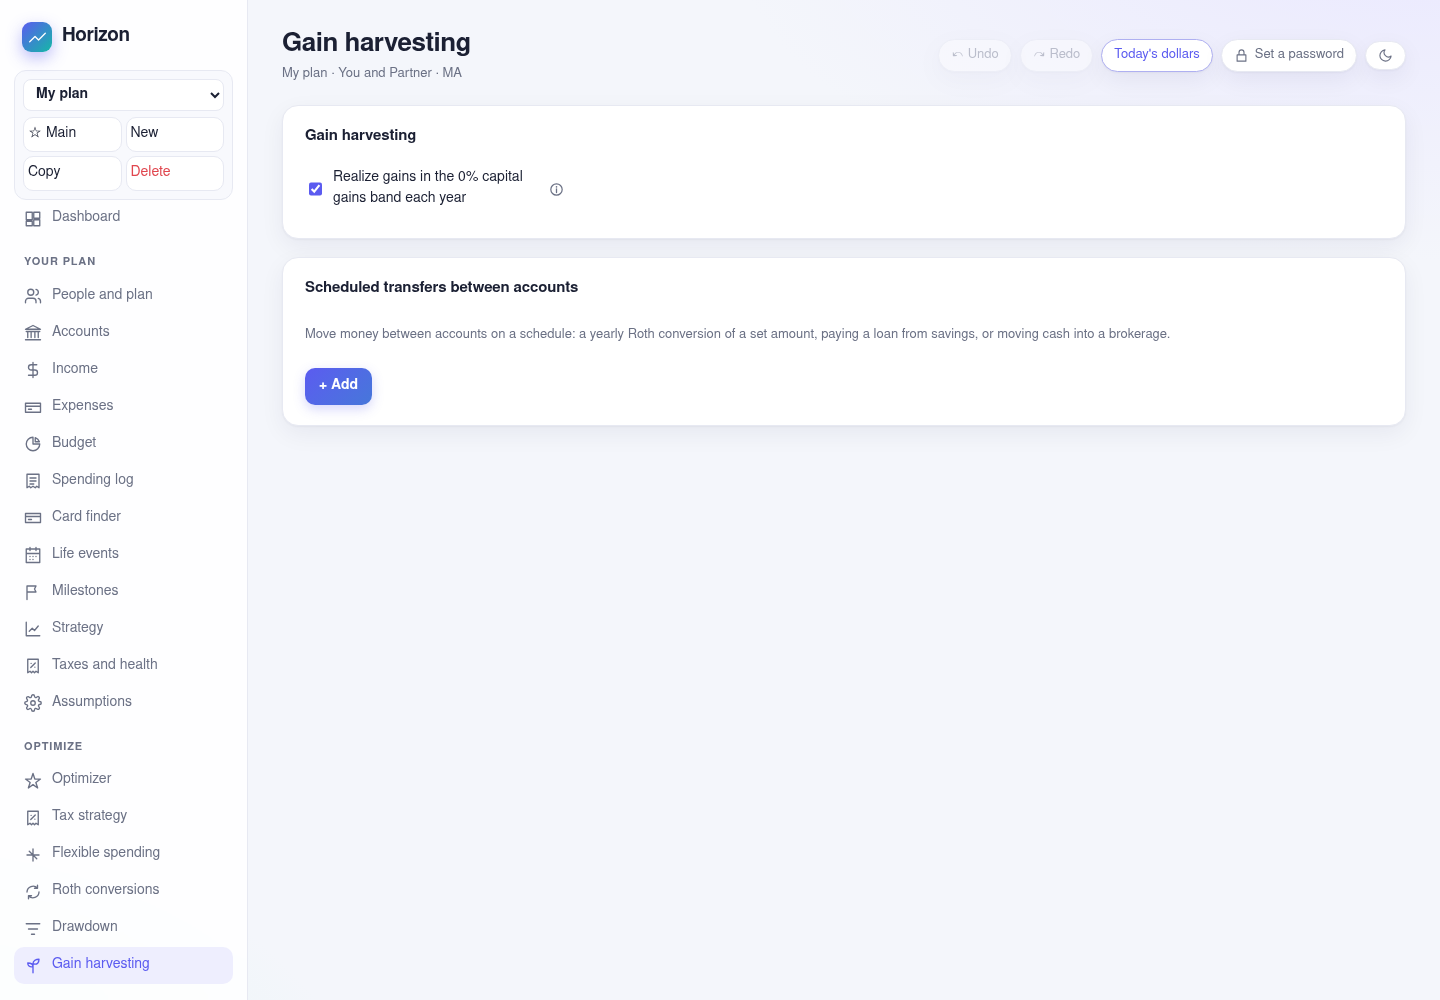
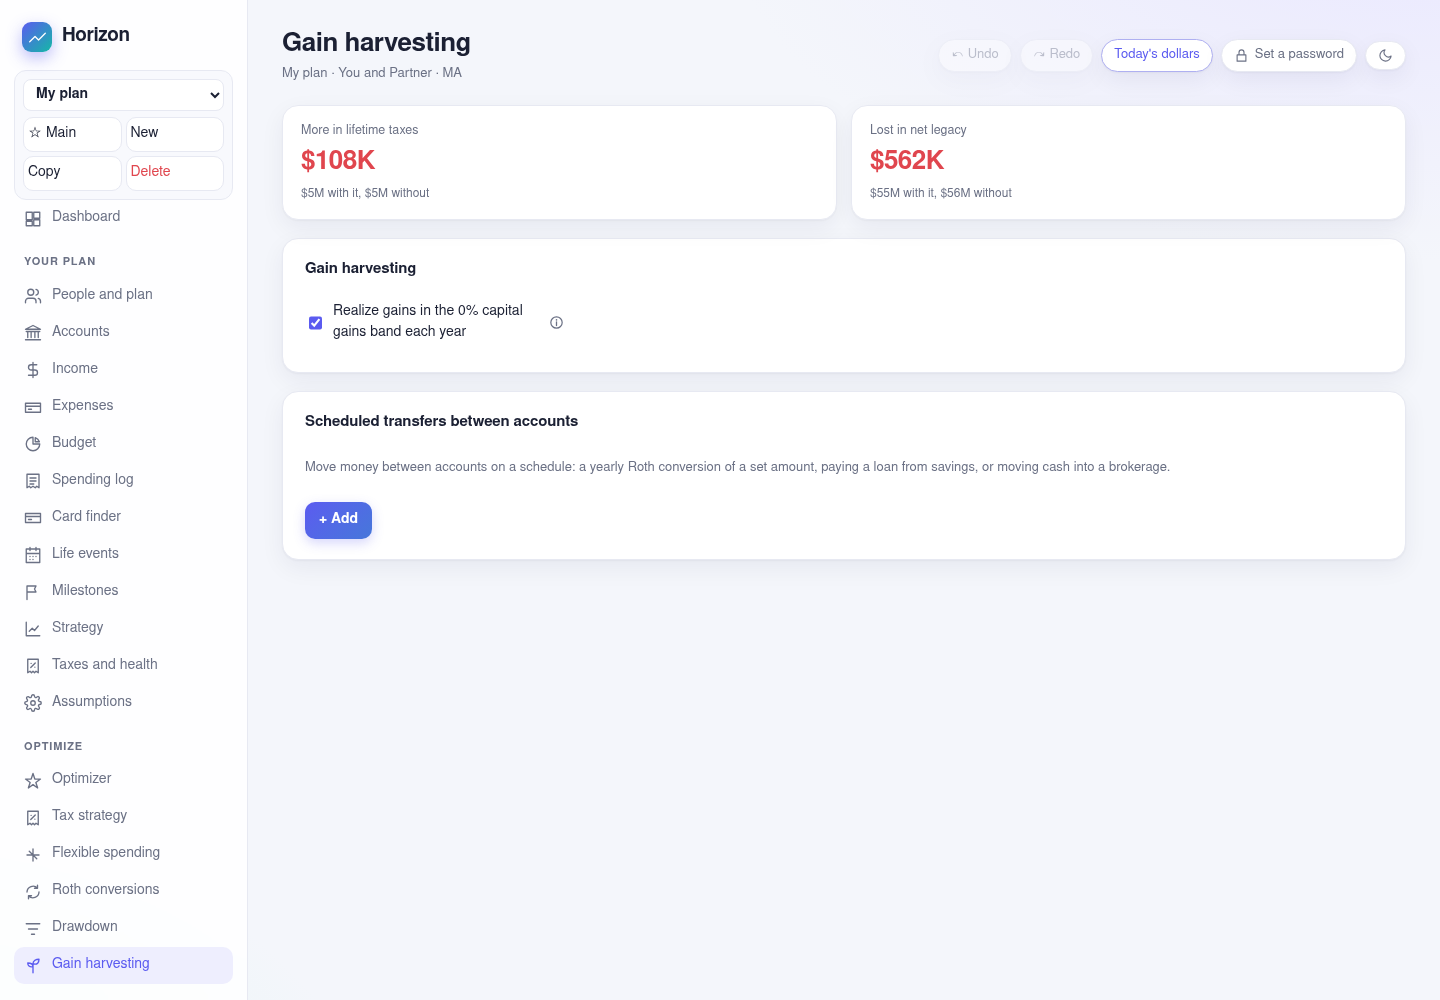
Optimize pages show each strategy's impact: lifetime taxes and net legacy with it and without
Claude-Session: https://claude.ai/code/session_01HeJ1UAxjk6MGEszesTwGbu

diff --git a/10_app/code/src/pages/Editors.tsx b/10_app/code/src/pages/Editors.tsx
@@ -1,4 +1,4 @@
-import { useState } from 'react';
+import { useMemo, useState } from 'react';
 // The pages where the plan is entered: people, accounts, income, Social Security, expenses, milestones, the strategy,
 // and the assumptions.
 import { uid } from '../engine/defaults';
@@ -14,6 +14,7 @@ import { benefitAtClaim } from '../engine/retirement';
 import { refLabel, type DateRef } from '../engine/dates';
 import { MARKET, assumptionAt, consensus } from '../engine/assumptions';
 import { PROVINCES } from '../engine/ca';
+import { strategyImpact } from '../engine/impact';
 import { MIT, applyMit, type MitGroup, type MitPlan, type MitTier } from '../engine/benefits';
 import { CONDITIONS, RACES, expectedDeathDate } from '../engine/lifespan';
 import { DIETS, FOOD_PLANS } from '../engine/food';
@@ -177,6 +178,19 @@ function StepsEditor({ steps, nominal, onChange }: { steps?: Step[]; nominal?: b
         </div>
       ))}
       <button className="ghost" onClick={() => onChange([...list, { year: new Date().getFullYear() + 1, amount: 0 }])}>+ A change in amount</button>
+    </div>
+  );
+}
+
+/** A strategy's impact: lifetime taxes and net legacy with it and without (engine/impact.ts). */
+function ImpactCard({ focus }: { focus: StrategyFocus }) {
+  const plan = useActivePlan();
+  const r = useMemo(() => strategyImpact(plan, focus), [plan, focus]);
+  const tone = (v: number, good: boolean) => (Math.abs(v) < 1 ? undefined : good ? 'good' : 'bad') as 'good' | 'bad' | undefined;
+  return (
+    <div className="stats">
+      <Stat label={r.moreTaxes >= 0 ? 'More in lifetime taxes' : 'Less in lifetime taxes'} value={money(Math.abs(r.moreTaxes), true)} sub={`${money(r.on.taxes, true)} with it, ${money(r.off.taxes, true)} without`} tone={tone(r.moreTaxes, r.moreTaxes < 0)} />
+      <Stat label={r.moreLegacy >= 0 ? 'Gained in net legacy' : 'Lost in net legacy'} value={money(Math.abs(r.moreLegacy), true)} sub={`${money(r.on.legacy, true)} with it, ${money(r.off.legacy, true)} without`} tone={tone(r.moreLegacy, r.moreLegacy > 0)} />
     </div>
   );
 }
@@ -824,6 +838,7 @@ export function StrategyPage({ focus }: { focus?: StrategyFocus } = {}) {
   });
   return (
     <>
+      {focus && <ImpactCard focus={focus} />}
       {show('tax') && <Card title="Saving while working">
         <div className="grid">
           <Num label="Cash to keep on hand (today's $)" value={s.cashTarget} onChange={(v) => update((p) => { p.strategy.cashTarget = v; })} />
@@ -887,6 +902,18 @@ export function StrategyPage({ focus }: { focus?: StrategyFocus } = {}) {
             <Num label="Share of discretionary spending cut" percent value={s.flex.cut} onChange={(v) => update((p) => { p.strategy.flex!.cut = Math.max(0, Math.min(1, v)); })} />
             <Num label="Raise when the portfolio is above its start by" percent value={s.flex.rise ?? 0.25} onChange={(v) => update((p) => { p.strategy.flex!.rise = v; })} />
             <Num label="Raise of discretionary spending" percent value={s.flex.boost ?? 0} onChange={(v) => update((p) => { p.strategy.flex!.boost = v; })} />
+            {(s.flex.rules ?? []).map((r, j) => (
+              <div key={j} className="span row">
+                <Num label="Further rule: when under its high by" percent value={r.drop} onChange={(v) => update((p) => { p.strategy.flex!.rules![j].drop = v; })} />
+                <Num label="cut by" percent value={r.cut} onChange={(v) => update((p) => { p.strategy.flex!.rules![j].cut = Math.max(0, Math.min(1, v)); })} />
+                <button className="ghost danger" onClick={() => update((p) => { p.strategy.flex!.rules!.splice(j, 1); })}>Remove</button>
+              </div>
+            ))}
+            <button className="ghost" onClick={() => update((p) => { (p.strategy.flex!.rules ??= []).push({ drop: Math.min(0.9, p.strategy.flex!.drop * 2), cut: Math.min(1, p.strategy.flex!.cut * 1.5) }); })}>+ Add rule</button>
+            <Select label="Between rules" value={s.flex.interpolate ? 'line' : 'step'} options={[['step', 'Step: apply a rule once its drop is met'], ['line', 'Interpolate: grow the cut in a line']]} onChange={(v) => update((p) => { p.strategy.flex!.interpolate = v === 'line' || undefined; })} />
+            <Select label="Flex applies to" value={s.flex.scope ?? 'discretionary'} options={[['discretionary', 'Discretionary spending only'], ['all', 'All spending']]} onChange={(v) => update((p) => { p.strategy.flex!.scope = v === 'all' ? 'all' : undefined; })} />
+            <Num label="Flex from year (0 for the start)" value={s.flex.from ?? 0} onChange={(v) => update((p) => { p.strategy.flex!.from = v || undefined; })} />
+            <Num label="Flex until year (0 for the end)" value={s.flex.to ?? 0} onChange={(v) => update((p) => { p.strategy.flex!.to = v || undefined; })} />
           </>}
           {show('tax') && <Check label="Give to charity from IRAs from 71 (qualified charitable distributions)" value={!!s.qcd} onChange={(v) => update((p) => { p.strategy.qcd = v; })} />}
         </div>

diff --git a/10_app/code/src/engine/impact.ts b/10_app/code/src/engine/impact.ts
@@ -1,0 +1,33 @@
+// A strategy's impact (ProjectionLab's Optimize pages, 2026-11-23): the plan as set against the same plan with the
+// strategy turned off, in lifetime taxes and net legacy (future dollars).
+import { netLegacy } from './estate';
+import { expandEvents, simulate } from './simulate';
+import type { Plan } from './types';
+
+export type ImpactFocus = 'tax' | 'flex' | 'roth' | 'drawdown' | 'harvest';
+
+/** The plan with one strategy, or every tax strategy for 'tax', turned off. */
+export function withoutStrategy(plan: Plan, focus: ImpactFocus): Plan {
+  const p = structuredClone(plan), s = p.strategy;
+  const offRoth = () => { s.autoRoth = undefined; s.rothConversionBracket = 0; s.manualConversions = []; };
+  const offShield = () => { s.shield = 'none'; };
+  const offHarvest = () => { s.harvestZeroGains = false; };
+  if (focus === 'roth') offRoth();
+  if (focus === 'drawdown') offShield();
+  if (focus === 'harvest') offHarvest();
+  if (focus === 'flex' && s.flex) s.flex = { ...s.flex, enabled: false };
+  if (focus === 'tax') { offRoth(); offShield(); offHarvest(); }
+  return p;
+}
+
+function outcome(plan: Plan) {
+  const p = expandEvents(structuredClone(plan));
+  const proj = simulate(structuredClone(p));
+  return { taxes: proj.years.reduce((t, y) => t + y.taxes.total, 0), legacy: netLegacy(p, proj).netLegacy };
+}
+
+/** Lifetime taxes and net legacy with the strategy and without, and the differences (with minus without). */
+export function strategyImpact(plan: Plan, focus: ImpactFocus) {
+  const on = outcome(plan), off = outcome(withoutStrategy(plan, focus));
+  return { on, off, moreTaxes: on.taxes - off.taxes, moreLegacy: on.legacy - off.legacy };
+}

diff --git a/10_app/code/src/engine/__tests__/impact.test.ts b/10_app/code/src/engine/__tests__/impact.test.ts
@@ -1,0 +1,14 @@
+import { describe, expect, it } from 'vitest';
+import { examplePlan } from '../defaults';
+import { strategyImpact, withoutStrategy } from '../impact';
+
+describe('strategy impact', () => {
+  it('turns the focused strategy off and measures the difference', () => {
+    const plan = examplePlan();
+    plan.strategy.harvestZeroGains = true;
+    expect(withoutStrategy(plan, 'harvest').strategy.harvestZeroGains).toBe(false);
+    const r = strategyImpact(plan, 'harvest');
+    expect(r.moreTaxes).toBeCloseTo(r.on.taxes - r.off.taxes, 6);
+    expect(Number.isFinite(r.moreLegacy)).toBe(true);
+  });
+});

diff --git a/todo.md b/todo.md
@@ -54,7 +54,6 @@ Asked by Bryce on 2026-11-23, in the order to build.
 - Tax strategy: several targets at once (bracket, IRMAA, ACA, an income ceiling) with constraints, in place of one shield.
 
 ## From the live ProjectionLab app (signed in 2026-11-23; captures in 99_overall/output/pl_live/)
-- Optimize pages: each strategy's impact, with it and without (more or less in lifetime taxes, more or less in net legacy, chance of success with and without).
 - Flexible spending: several rules (when performance is down by X, flex discretionary spending by Y), step or interpolated, a time range, a scope.
 - Estate: heirs' tax rate on tax-deferred accounts, capital gains rate, stepped-up basis, liquidation cost, administrative cost, the final tax return, estate drag, and a breakdown by account.
 - Tax analytics: by income item, gross, tax, net, and effective rate; notable events (penalized distributions, RMDs, Roth conversions, tax-deferred distributions).
